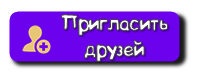
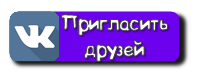
124

Changed region(s): [[0.03, 0.1389, 0.3, 0.8611]]

diff --git a/index.js b/index.js
@@ -2361,7 +2361,6 @@ var user_data={
 		
 		let s=window.location.href;
 
-
 		if (s.includes("yandex")) {
 						
 			Promise.all([
@@ -2581,6 +2580,14 @@ var user_data={
 		let loader2 = new PIXI.Loader();
 		loader2.add('my_avatar', my_data.pic_url,{loadType: PIXI.loaders.Resource.LOAD_TYPE.IMAGE});
 		loader2.load((loader, resources) => {objects.player_avatar.texture = resources.my_avatar.texture;});				
+					
+					
+		//показываем кнопки вконтакте если мы в этой соц. сети
+		if (game_platform==='VK_WEB' || game_platform==='VK_MINIAPP') {
+			objects.invite_friends_button.visible=true;
+			objects.vk_post_button.visible=true;
+		}
+					
 					
 		//загружаем файербейс
 		this.init_firebase();	
